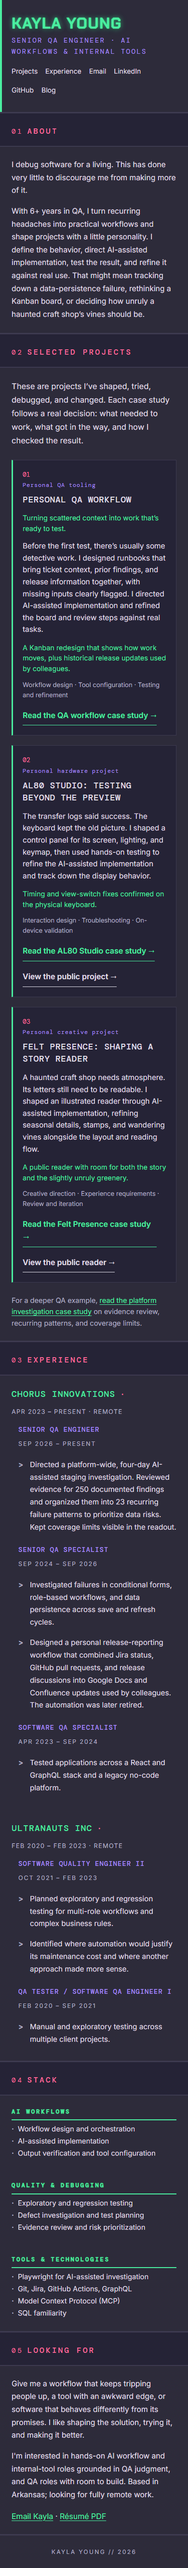
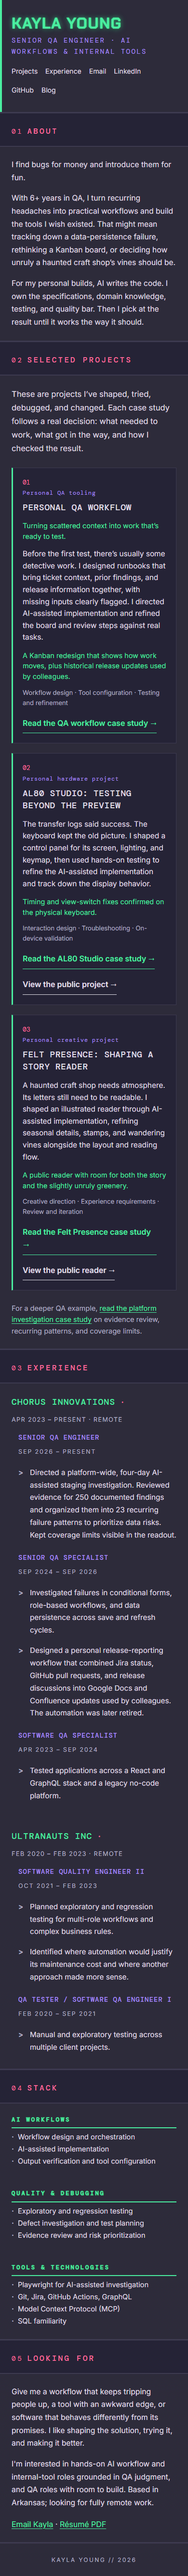
Bring portfolio copy closer to existing project voice

Changed region(s): [[0.0615, 0.0623, 0.9231, 0.9651]]

diff --git a/portfolio/index.html b/portfolio/index.html
@@ -39,7 +39,7 @@
 <main id="main-content">
 <section class="section" aria-labelledby="about-heading">
   <div class="section-label"><span class="section-number">01</span><h2 class="section-name" id="about-heading">About</h2></div>
-  <div class="section-content"><p class="about-text">I debug software for a living. This has done very little to discourage me from making more of it.</p><p class="about-text">With 6+ years in QA, I turn recurring headaches into practical workflows and shape projects with a little personality. I define the behavior, direct AI-assisted implementation, test the result, and refine it against real use. That might mean tracking down a data-persistence failure, rethinking a Kanban board, or deciding how unruly a haunted craft shop’s vines should be.</p></div>
+  <div class="section-content"><p class="about-text">I find bugs for money and introduce them for fun.</p><p class="about-text">With 6+ years in QA, I turn recurring headaches into practical workflows and build the tools I wish existed. That might mean tracking down a data-persistence failure, rethinking a Kanban board, or deciding how unruly a haunted craft shop’s vines should be.</p><p class="about-text">For my personal builds, AI writes the code. I own the specifications, domain knowledge, testing, and quality bar. Then I pick at the result until it works the way it should.</p></div>
 </section>
 <section class="section print-hide" id="selected-projects" aria-labelledby="projects-heading">
   <div class="section-label"><span class="section-number">02</span><h2 class="section-name" id="projects-heading">Selected Projects</h2></div>

diff --git a/portfolio/projects/qa-workflow.html b/portfolio/projects/qa-workflow.html
@@ -16,7 +16,7 @@
 <a class="back-link" href="/portfolio/#selected-projects">&larr; Back to selected projects</a>
 <p class="case-kicker">Personal QA tooling</p>
 <h1>Turning scattered context into reviewable QA work</h1>
-<p class="case-lead">Before the first test came the scavenger hunt. I designed a personal workflow that brings ticket context, prior findings, and release information into runbooks I could actually work from.</p>
+<p class="case-lead">A personal QA workspace with version control and strong opinions about how AI should behave. I designed the workflow to bring ticket context, prior findings, and release information into runbooks I could actually work from.</p>
 <dl class="case-facts"><div><dt>Context</dt><dd>Personal tooling for my QA work</dd></div><div><dt>My role</dt><dd>Workflow design, tool configuration, AI-assisted implementation direction, testing</dd></div><div><dt>Evidence</dt><dd>Ticket-specific runbooks and historical release documents used by colleagues</dd></div><div><dt>Status</dt><dd>Workflows evolved; release-documentation automation retired</dd></div></dl>
 <div class="case-layout">
 <nav class="contents" aria-label="On this page"><h2>Contents</h2><a href="#problem">Problem</a><a href="#decisions">Decisions</a><a href="#validation">Validation</a><a href="#evidence">Evidence</a><a href="#limits">Limits</a></nav>

diff --git a/README.md b/README.md
@@ -1,6 +1,8 @@
 # Kayla Young
 
-Test automation and internal tooling. Bentonville, AR (remote).
+**I find bugs for money and introduce them for fun.**
+
+Senior QA Engineer · AI Workflows & Internal Tools. Bentonville, AR (remote).
 
 **Live site:** [snackdriven.com](https://snackdriven.com)
 
